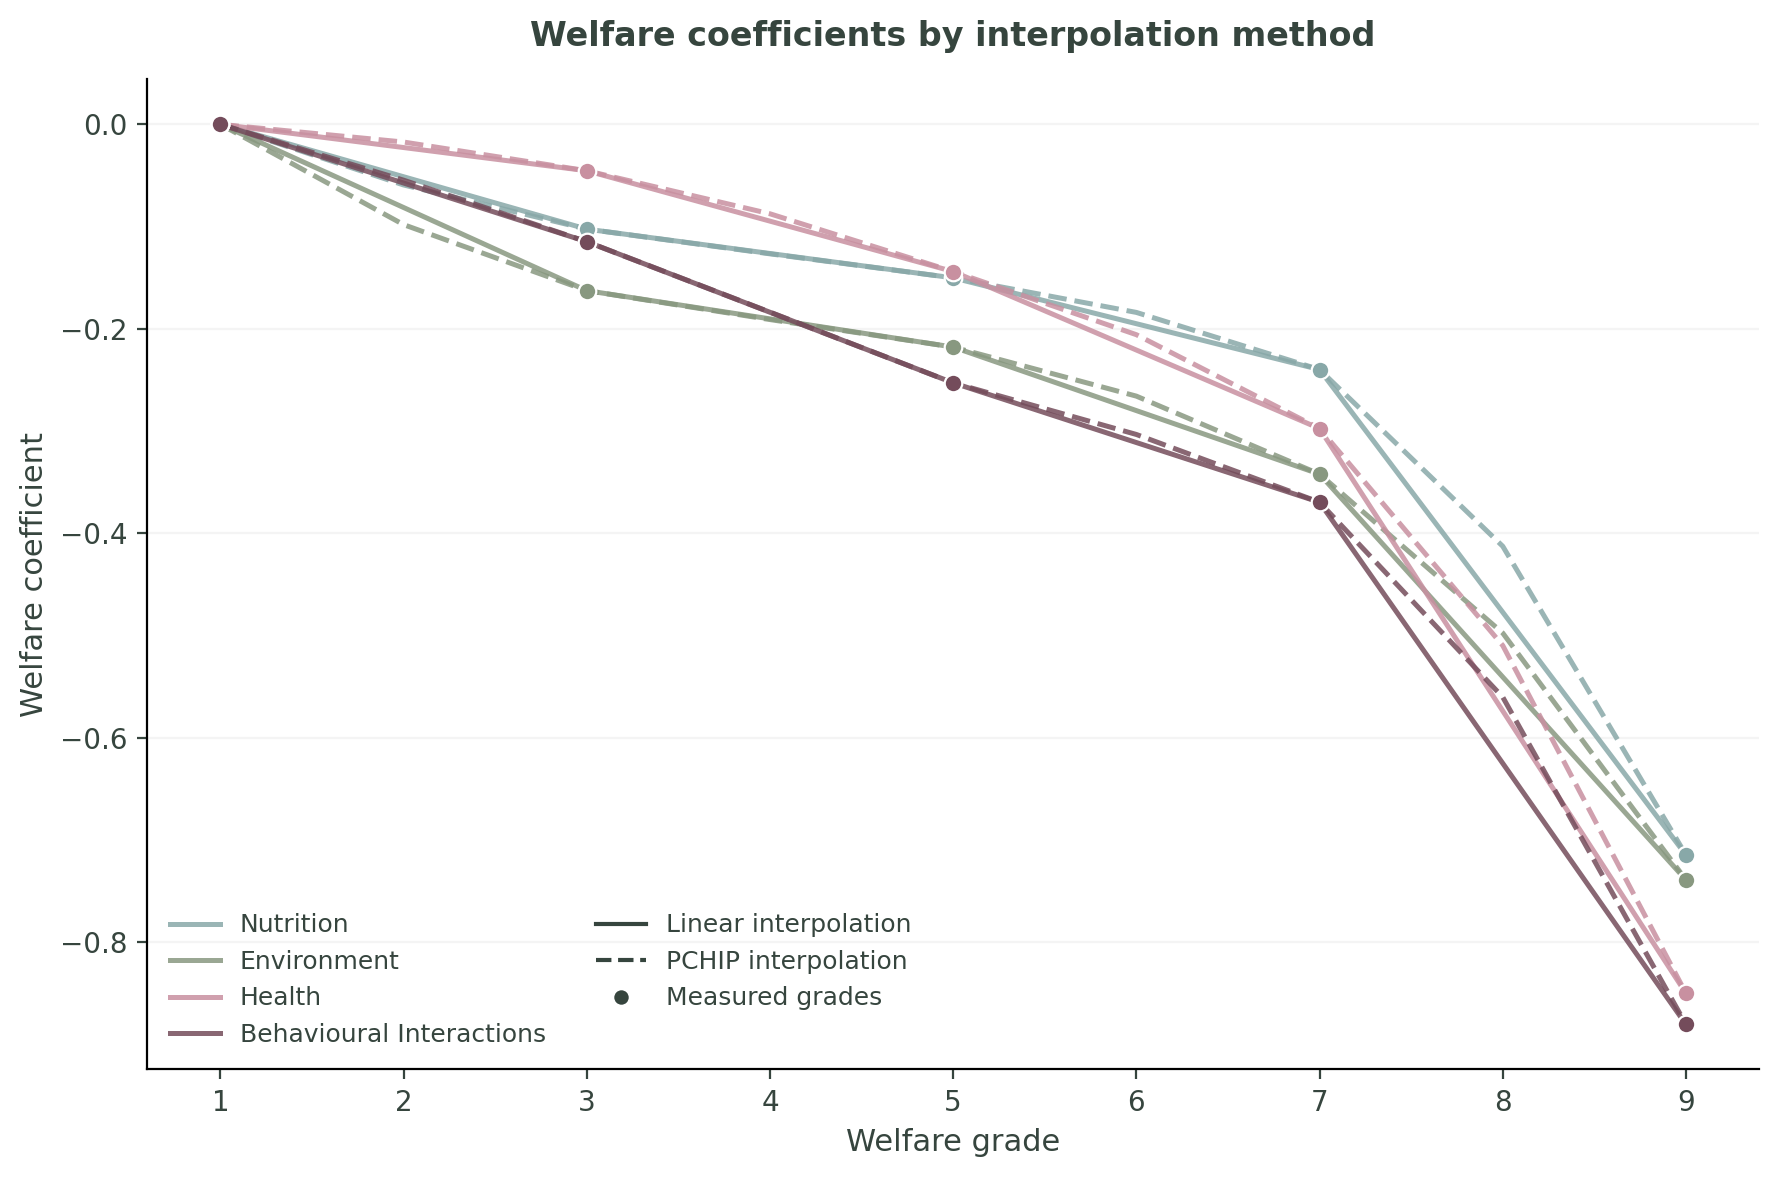
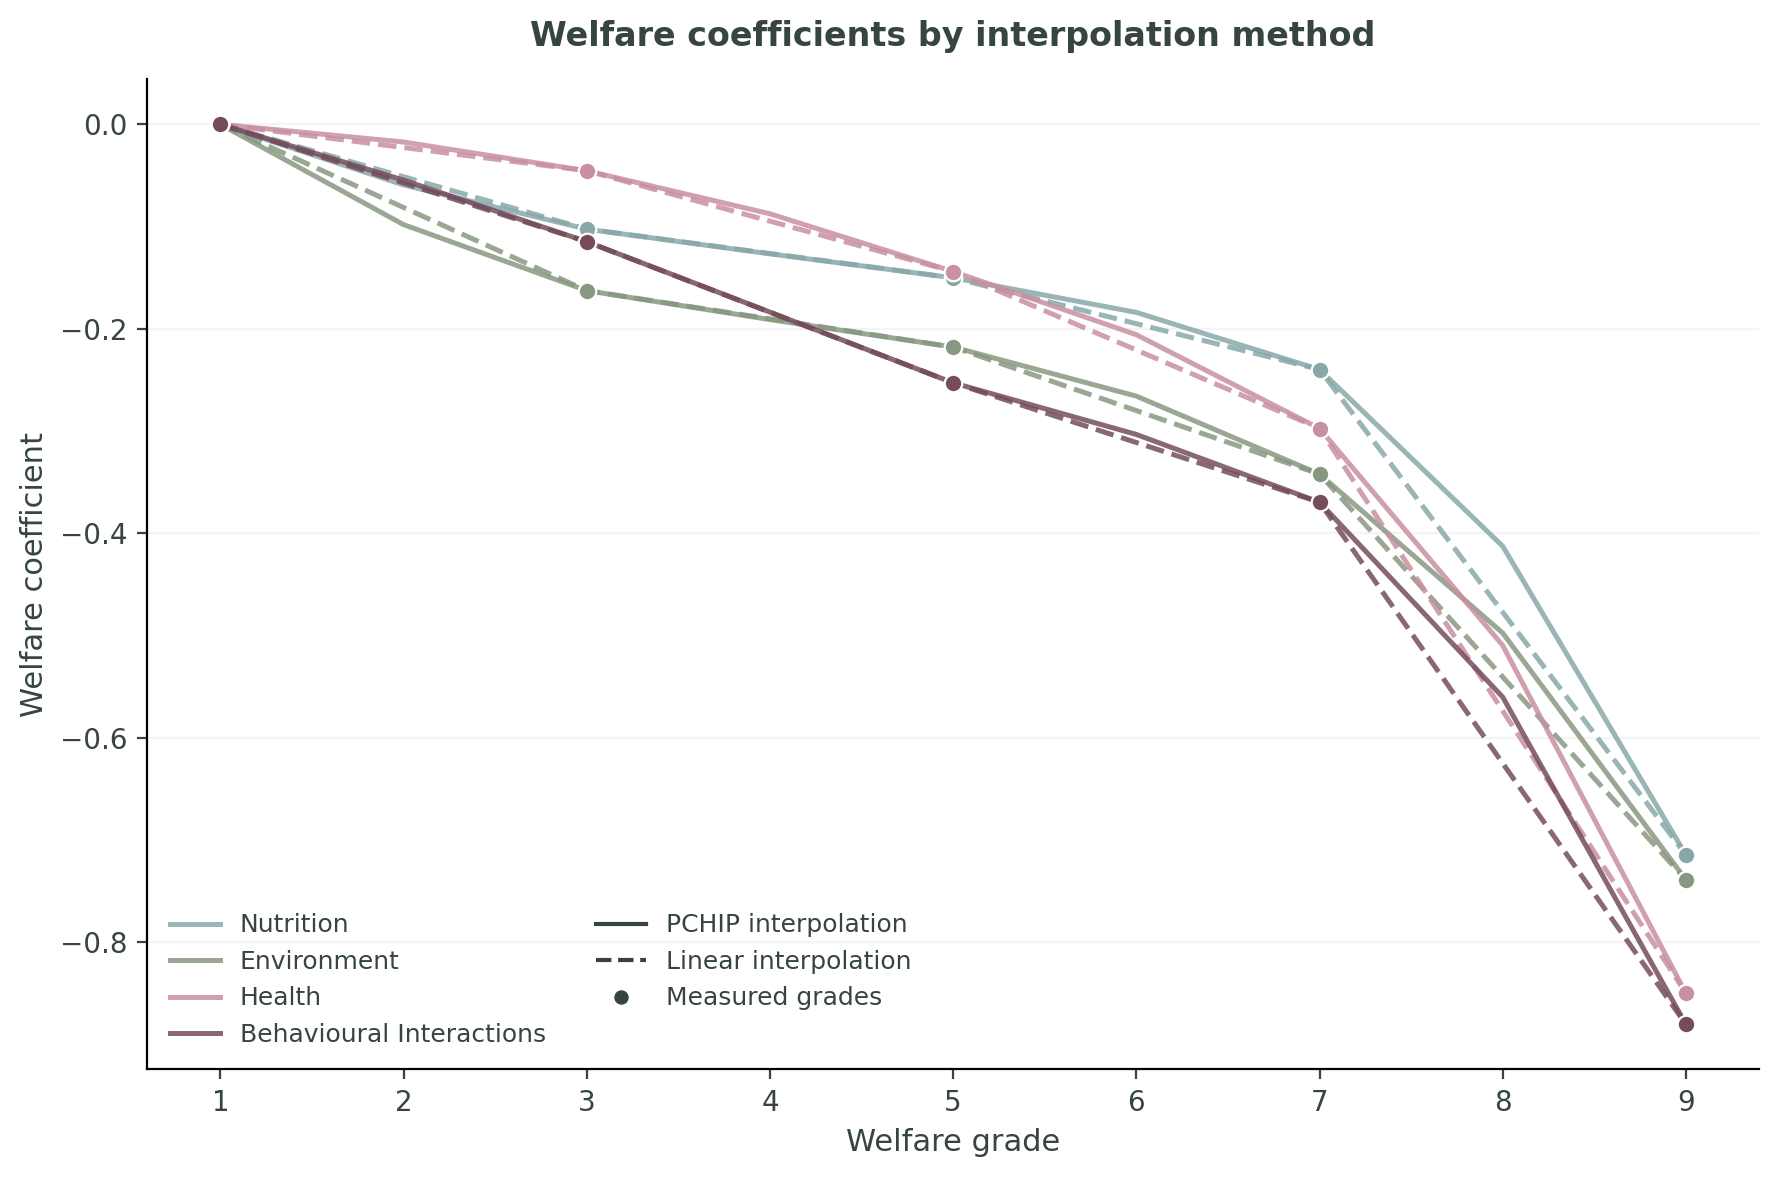
Add timeline figure, swap PCHIP to solid line, renumber figures
Figure 1: welfare timelines (new). Figure 2: interpolation coefficients
(PCHIP now solid, linear dashed). Figures 3-4 renumbered.

diff --git a/index.html b/index.html
@@ -315,6 +315,11 @@
 
 <p>IC yields a lifetime AQALY of &minus;0.245 vs &minus;0.280 for SC+: a welfare gain of +0.035 AQALY over the 200-day period, driven primarily by the 121-day pre-pubertal behavioural benefit.</p>
 
+<div class="figure-container">
+  <img src="fig1_timelines.png" alt="Welfare timelines for four castration methods over the 200-day fattening period">
+  <p class="figure-caption"><strong>Figure 1.</strong> Welfare timelines for the four castration methods over the 200-day fattening period. Each bar shows segment duration and AQALY rate. IC and EM spend most of the fattening period as intact pigs with improved behavioural welfare; SC+ and SC&minus; revert to baseline after a brief acute pain period.</p>
+</div>
+
 
 <h2>2. Interpolation method: PCHIP vs linear</h2>
 
@@ -322,12 +327,12 @@
 
 <div class="figure-container">
   <img src="fig_interpolation_lines.png" alt="Welfare coefficients by grade: PCHIP vs linear interpolation across four domains">
-  <p class="figure-caption"><strong>Figure 1.</strong> AQALY welfare coefficients across all nine grades for each domain. Solid lines: linear interpolation (Espinosa et al. default). Dashed lines: PCHIP (this study). Both coincide at the five measured grades (1, 3, 5, 7, 9) and diverge at even grades. The largest gap is at grade 8, where the linear method overshoots relative to the data's curvature.</p>
+  <p class="figure-caption"><strong>Figure 2.</strong> AQALY welfare coefficients across all nine grades for each domain. Solid lines: PCHIP (this study). Dashed lines: linear interpolation (Espinosa et al. default). Both coincide at the five measured grades (1, 3, 5, 7, 9) and diverge at even grades. The largest gap is at grade 8, where the linear method overshoots relative to the data's curvature.</p>
 </div>
 
 <div class="figure-container">
   <img src="fig_interpolation_bars.png" alt="Lifetime AQALY by interpolation approach and castration method">
-  <p class="figure-caption"><strong>Figure 2.</strong> Lifetime AQALY scores (200-day fattening period) under linear and PCHIP interpolation. Rankings are preserved: IC &gt; EM &gt; SC+ &gt; SC&minus; under both methods. Linear interpolation produces scores that are 0.024&ndash;0.036 AQALY more negative, because it overshoots at grade 8 where the data curves. The relative differences between methods are broadly similar.</p>
+  <p class="figure-caption"><strong>Figure 3.</strong> Lifetime AQALY scores (200-day fattening period) under linear and PCHIP interpolation. Rankings are preserved: IC &gt; EM &gt; SC+ &gt; SC&minus; under both methods. Linear interpolation produces scores that are 0.024&ndash;0.036 AQALY more negative, because it overshoots at grade 8 where the data curves. The relative differences between methods are broadly similar.</p>
 </div>
 
 
@@ -341,7 +346,7 @@
 
 <div class="figure-container">
   <img src="fig_moral_weight_sensitivity.png" alt="Indirect (WTP) and direct (AQALY) approaches to valuing castration alternatives">
-  <p class="figure-caption"><strong>Figure 3.</strong> All panels reference SC&minus; (surgical castration without anaesthesia). Panel A: consumer WTP (Lin-Schilstra and Fischer 2022, Belgium, n&nbsp;=&nbsp;825); SC+ excluded (reference price in experimental design). Panels B&ndash;C: combined economic and welfare advantage vs SC&minus; in EUR per kg of pork, under two moral weight parameters. Values converted at 70&nbsp;kg of retail pork per pig sold; EUR&nbsp;147,000 per QALY (OECD/EU). Panel&nbsp;A WTP premiums are stated consumer surplus per kg of product; Panels&nbsp;B&ndash;C show social welfare per kg of all pork sold. Economic advantages (blue) from the Phase&nbsp;1 cost comparison; welfare advantages (pink) AQALY-derived. Panels A and B share the same y-axis scale. The IC&nbsp;&gt;&nbsp;EM ranking is preserved across all three panels.</p>
+  <p class="figure-caption"><strong>Figure 4.</strong> All panels reference SC&minus; (surgical castration without anaesthesia). Panel A: consumer WTP (Lin-Schilstra and Fischer 2022, Belgium, n&nbsp;=&nbsp;825); SC+ excluded (reference price in experimental design). Panels B&ndash;C: combined economic and welfare advantage vs SC&minus; in EUR per kg of pork, under two moral weight parameters. Values converted at 70&nbsp;kg of retail pork per pig sold; EUR&nbsp;147,000 per QALY (OECD/EU). Panel&nbsp;A WTP premiums are stated consumer surplus per kg of product; Panels&nbsp;B&ndash;C show social welfare per kg of all pork sold. Economic advantages (blue) from the Phase&nbsp;1 cost comparison; welfare advantages (pink) AQALY-derived. Panels A and B share the same y-axis scale. The IC&nbsp;&gt;&nbsp;EM ranking is preserved across all three panels.</p>
 </div>
 
 
